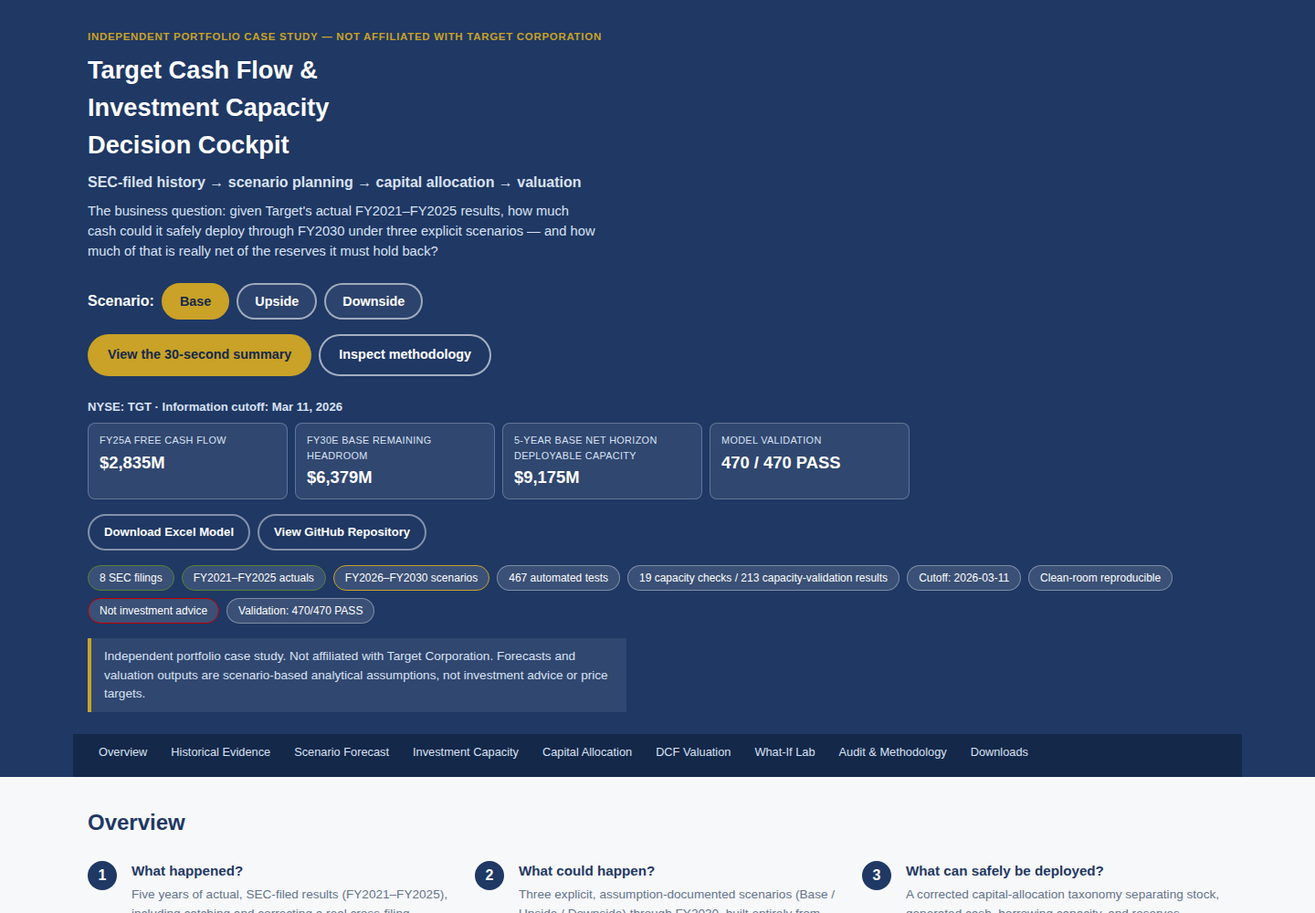
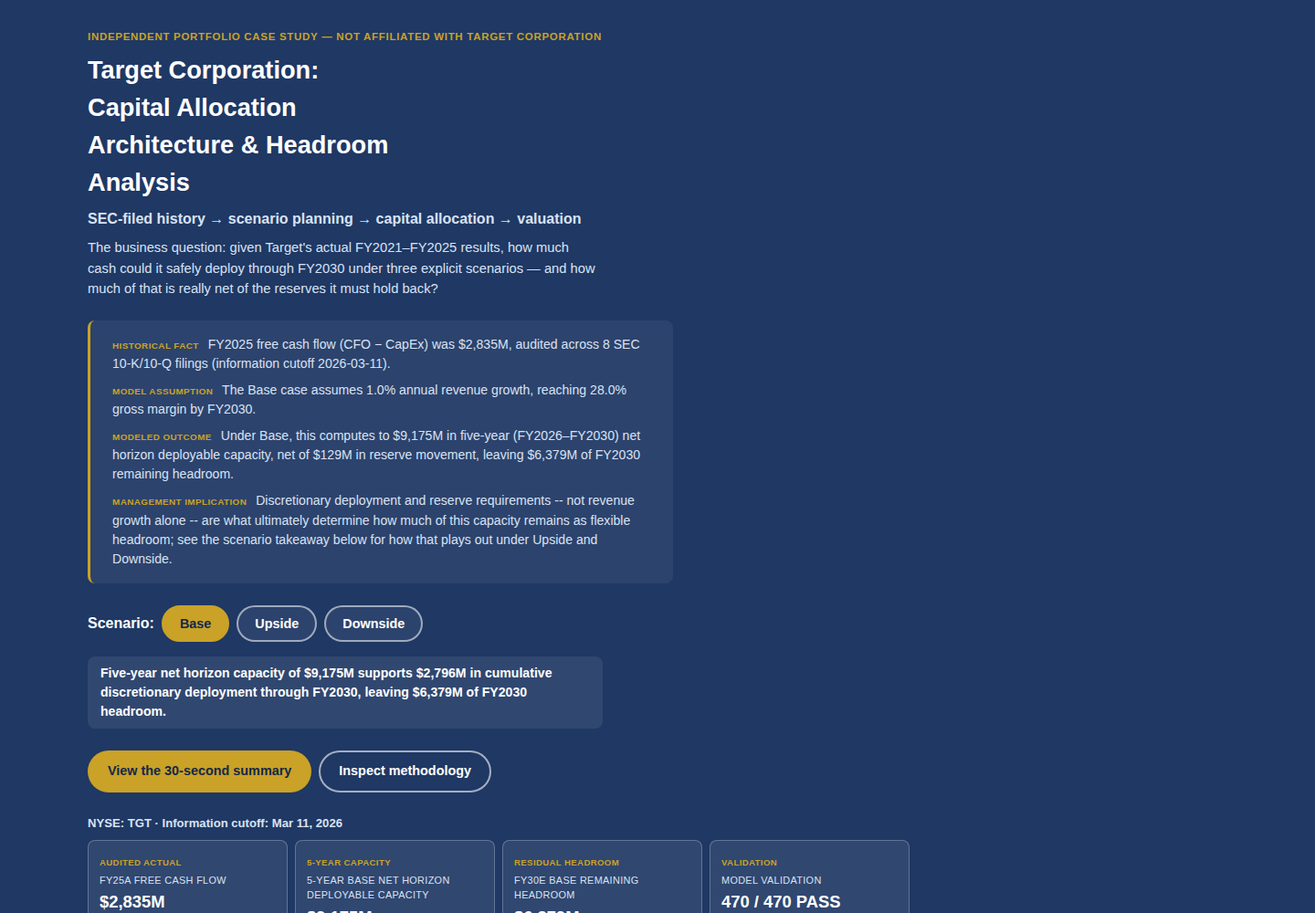
Institutional executive layer: briefing memo, scenario takeaways, chart divider, progressive disclosure
Corrects and implements a UI-enhancement brief that arrived with several
fabricated financial figures (Upside net capacity claimed at $14.1B vs. the
real $7,420.7M; Downside erosion claimed at -74% vs. the real -30.4%; plus
invented figures with no basis in model_data.json: "$1.5B operational
reserve," "54-year dividend streak," "$3.2B cumulative repurchases," "$600M
CapEx reduction"). None of those are used. Every number below is read live
from model_data.json.

- index.html/js/app.js: institutional H1 ("Target Corporation: Capital
  Allocation Architecture & Headroom Analysis"); an executive-briefing-memo
  box distinguishing HISTORICAL FACT / MODEL ASSUMPTION / MODELED OUTCOME /
  MANAGEMENT IMPLICATION, Base-anchored and computed from DATA; a dynamic
  #scenario-takeaway under the toggle that updates per scenario, including
  a live-computed Downside erosion percentage (never hardcoded); hero KPI
  ribbon cards gain a classification badge + real subtext (e.g. FY25A CapEx
  of $3,727M, not the fabricated $2.8B) without introducing a STOCK/FLOW/
  USE taxonomy that would double-count CapEx already netted into FCF.
- js/charts.js: lineChart() accepts an optional boundaryFy, drawing a
  subtle dashed divider + "AUDITED ACTUALS"/"PROJECTED HORIZON" watermarks
  -- wired only for chart-revenue-fcf, the one chart genuinely mixing
  actual and forecast points; every other chart (actuals-only or
  forecast-only) is untouched.
[…]

Changed region(s): [[0.0, 0.062, 1.0, 1.0], [0.5312, 0.465, 0.6562, 0.527]]

diff --git a/deliverables/web_cockpit/js/app.js b/deliverables/web_cockpit/js/app.js
@@ -199,6 +199,11 @@
     const revChart = document.getElementById("chart-revenue-fcf");
     lineChart(revChart, {
       formatter: "millions",
+      // The only chart on the page plotting actual and forecast points in
+      // the same series -- the boundary divider belongs here, and nowhere
+      // a chart shows only one period (never invented on a forecast-only
+      // or actuals-only chart).
+      boundaryFy: (Number(DATA.historical_years[DATA.historical_years.length - 1]) + years[0].fiscal_year) / 2,
       series: [
         { label: "Revenue (actual)", points: histSeries, color: "#1F3864" },
         { label: "Revenue (forecast)", points: [histSeries[histSeries.length - 1], ...fcstSeries], color: "#1F3864", dashed: true },
@@ -226,8 +231,29 @@
 
     document.getElementById("scenario-narrative-snapshot").textContent = sc.narrative;
     renderExecutiveCommentary(sc, hz, capTerminal);
+    renderScenarioTakeaway(hz);
 
     renderComparisonTable();
+  }
+
+  // Dynamic, per-scenario "so what" line under the scenario toggle --
+  // every number below is read directly from DATA (never invented), and
+  // the Downside erosion percentage is computed live against Base, not
+  // hardcoded, so it can never drift from what the model actually outputs.
+  function renderScenarioTakeaway(hz) {
+    const baseHz = DATA.scenarios.base.capacity_horizon_summary;
+    const takeawayEl = document.getElementById("scenario-takeaway");
+    if (currentScenario === "base") {
+      takeawayEl.textContent =
+        `Five-year net horizon capacity of ${fmtM(hz.net_horizon_deployable_capacity)} supports ${fmtM(hz.cumulative_discretionary_deployment)} in cumulative discretionary deployment through FY2030, leaving ${fmtM(hz.terminal_remaining_headroom)} of FY2030 headroom.`;
+    } else if (currentScenario === "upside") {
+      takeawayEl.textContent =
+        `Stronger performance funds ${fmtM(hz.cumulative_discretionary_deployment)} in cumulative discretionary deployment and carries a ${fmtM(hz.terminal_forward_debt_repayment_reserve)} forward debt-service reserve, leaving ${fmtM(hz.terminal_remaining_headroom)} of FY2030 headroom -- net horizon capacity of ${fmtM(hz.net_horizon_deployable_capacity)}, below Base once that reserve and deployment are netted out.`;
+    } else {
+      const erosionPct = ((baseHz.net_horizon_deployable_capacity - hz.net_horizon_deployable_capacity) / baseHz.net_horizon_deployable_capacity) * 100;
+      takeawayEl.textContent =
+        `Zero discretionary deployment preserves ${fmtM(hz.terminal_remaining_headroom)} of FY2030 headroom, holding net horizon capacity at ${fmtM(hz.net_horizon_deployable_capacity)} -- a ${erosionPct.toFixed(1)}% decline from Base's ${fmtM(baseHz.net_horizon_deployable_capacity)}, achieved by restraint, not performance.`;
+    }
   }
 
   // The full narrative (sc.narrative) is preserved verbatim inside the
@@ -264,20 +290,63 @@
     const baseCapTerminal = baseSc.capacity_taxonomy_by_year[String(baseTerminal.fiscal_year)];
     const baseHz = baseSc.capacity_horizon_summary;
     const { totalChecks, totalPass } = validationTotals();
+    const hist2025 = DATA.historical["2025"];
 
     const strip = document.getElementById("hero-kpi-strip");
     strip.innerHTML = "";
+    // badge: a short institutional classification tag, distinct from the
+    // taxonomy's STOCK/FLOW/SOURCE/USE/RESERVE badges used in Investment
+    // Capacity -- these four are already-netted headline metrics, not raw
+    // capital-stack components, so a taxonomy badge here would misrepresent
+    // (e.g. FCF is already net of CapEx; labeling it FLOW would invite
+    // double-counting it against CapEx shown again elsewhere).
     const cards = [
-      ["FY25A Free Cash Flow", fmtM(DATA.historical["2025"].free_cash_flow)],
-      ["FY30E Base Remaining Headroom", fmtM(baseCapTerminal.remaining_deployable_headroom)],
-      ["5-Year Base Net Horizon Deployable Capacity", fmtM(baseHz.net_horizon_deployable_capacity)],
-      ["Model Validation", `${totalPass} / ${totalChecks} PASS`],
+      { badge: "AUDITED ACTUAL", label: "FY25A Free Cash Flow", value: fmtM(hist2025.free_cash_flow), subtext: `Net of ${fmtM(hist2025.capital_expenditure)} FY25A CapEx` },
+      { badge: "5-YEAR CAPACITY", label: "5-Year Base Net Horizon Deployable Capacity", value: fmtM(baseHz.net_horizon_deployable_capacity), subtext: "FY26–FY30, net of reserves" },
+      { badge: "RESIDUAL HEADROOM", label: "FY30E Base Remaining Headroom", value: fmtM(baseCapTerminal.remaining_deployable_headroom), subtext: "FY2030, post-deployment & reserves" },
+      { badge: "VALIDATION", label: "Model Validation", value: `${totalPass} / ${totalChecks} PASS`, subtext: `Reconciled across ${DATA.sources.length} SEC filings` },
     ];
-    cards.forEach(([label, value]) => {
+    cards.forEach((c) => {
       strip.appendChild(
         el("div", { class: "hero-kpi-card" }, [
-          el("div", { class: "hero-kpi-label", text: label }),
-          el("div", { class: "hero-kpi-value", text: value }),
+          el("div", { class: "hero-kpi-badge", text: c.badge }),
+          el("div", { class: "hero-kpi-label", text: c.label }),
+          el("div", { class: "hero-kpi-value", text: c.value }),
+          el("div", { class: "hero-kpi-subtext", text: c.subtext }),
+        ])
+      );
+    });
+  }
+
+  // -----------------------------------------------------------------------
+  // Executive briefing memo -- a fixed, Base-anchored institutional summary
+  // (distinct from the per-scenario "so what" line under the toggle, which
+  // updates live). Every number is read from DATA; the 4 lines are labeled
+  // by category so a reviewer can tell a filed fact from a stated
+  // assumption from a computed outcome from a qualitative synthesis --
+  // never blended into one undifferentiated paragraph.
+  // -----------------------------------------------------------------------
+  function renderExecutiveBriefingMemo() {
+    const baseSc = DATA.scenarios.base;
+    const baseTerminal = baseSc.years[baseSc.years.length - 1];
+    const baseCapTerminal = baseSc.capacity_taxonomy_by_year[String(baseTerminal.fiscal_year)];
+    const baseHz = baseSc.capacity_horizon_summary;
+    const hist2025 = DATA.historical["2025"];
+
+    const lines = [
+      { tag: "HISTORICAL FACT", text: `FY2025 free cash flow (CFO − CapEx) was ${fmtM(hist2025.free_cash_flow)}, audited across ${DATA.sources.length} SEC 10-K/10-Q filings (information cutoff ${DATA.information_cutoff}).` },
+      { tag: "MODEL ASSUMPTION", text: `The Base case assumes ${fmtPct(baseTerminal.revenue_growth_pct)} annual revenue growth, reaching ${fmtPct(baseTerminal.gross_margin_pct)} gross margin by FY2030.` },
+      { tag: "MODELED OUTCOME", text: `Under Base, this computes to ${fmtM(baseHz.net_horizon_deployable_capacity)} in five-year (FY2026–FY2030) net horizon deployable capacity, net of ${fmtM(baseHz.ending_reserve_movement)} in reserve movement, leaving ${fmtM(baseCapTerminal.remaining_deployable_headroom)} of FY2030 remaining headroom.` },
+      { tag: "MANAGEMENT IMPLICATION", text: "Discretionary deployment and reserve requirements -- not revenue growth alone -- are what ultimately determine how much of this capacity remains as flexible headroom; see the scenario takeaway below for how that plays out under Upside and Downside." },
+    ];
+
+    const memo = document.getElementById("executive-briefing-memo");
+    memo.innerHTML = "";
+    lines.forEach((line) => {
+      memo.appendChild(
+        el("p", { class: "executive-briefing-line" }, [
+          el("span", { class: "executive-briefing-tag", text: line.tag }),
+          document.createTextNode(" " + line.text),
         ])
       );
     });
@@ -1136,6 +1205,7 @@
         DATA = data;
         renderHeader();
         renderHeroKpiStrip();
+        renderExecutiveBriefingMemo();
         document.getElementById("header-download-excel").href =
           `${REPO_URL}/raw/${REPO_BRANCH}/deliverables/Target_Cash_Flow_Investment_Capacity_Model.xlsx`;
         document.getElementById("header-download-excel").setAttribute("download", "");

diff --git a/deliverables/web_cockpit/index.html b/deliverables/web_cockpit/index.html
@@ -28,9 +28,11 @@
   <div class="hero">
     <div class="hero-inner">
       <p class="hero-kicker">Independent portfolio case study — not affiliated with Target Corporation</p>
-      <h1>Target Cash Flow &amp; Investment Capacity Decision Cockpit</h1>
+      <h1>Target Corporation: Capital Allocation Architecture &amp; Headroom Analysis</h1>
       <p class="hero-subtitle">SEC-filed history → scenario planning → capital allocation → valuation</p>
       <p class="hero-question">The business question: given Target's actual FY2021–FY2025 results, how much cash could it safely deploy through FY2030 under three explicit scenarios — and how much of that is really net of the reserves it must hold back?</p>
+
+      <div class="executive-briefing-memo" id="executive-briefing-memo" aria-label="Executive briefing memo"></div>
 
       <div class="scenario-selector hero-scenario-selector" role="radiogroup" aria-label="Scenario selector">
         <span class="scenario-label">Scenario:</span>
@@ -38,6 +40,7 @@
         <button type="button" class="scenario-btn" data-scenario="upside" role="radio" aria-checked="false">Upside</button>
         <button type="button" class="scenario-btn" data-scenario="downside" role="radio" aria-checked="false">Downside</button>
       </div>
+      <p class="scenario-takeaway" id="scenario-takeaway" role="status"></p>
 
       <div class="hero-ctas">
         <a class="btn btn-primary" href="#tour">View the 30-second summary</a>
@@ -163,9 +166,11 @@
     <p class="panel-sub">These four figures are frequently confused. Each is a distinct, independently sourced measure — never substituted for one another anywhere in this project.</p>
     <div class="definition-grid" id="cash-definitions-grid"></div>
 
-    <h3 class="section-divider">Filing-Vintage Comparison (As-Filed vs. Restated)</h3>
-    <p class="panel-sub">Where a later filing restated an earlier one, both vintages are preserved — never silently overwritten.</p>
-    <div class="table-wrap"><table id="table-vintage" class="data-table"></table></div>
+    <details class="evidence-panel audit-accordion">
+      <summary>▶ Inspect Filing-Vintage Reconciliation (As-Filed vs. Restated)</summary>
+      <p class="panel-sub">Where a later filing restated an earlier one, both vintages are preserved — never silently overwritten.</p>
+      <div class="table-wrap"><table id="table-vintage" class="data-table"></table></div>
+    </details>
 
     <h3 class="section-divider">Quarterly Cash Seasonality (Independent of the Forecast Model)</h3>
     <div class="chart-card full">
@@ -345,8 +350,10 @@
   <section id="audit" class="panel" aria-labelledby="audit-h">
     <h2 id="audit-h">Audit &amp; Methodology</h2>
 
-    <h3>Source Filings</h3>
-    <div class="table-wrap"><table id="table-sources" class="data-table"></table></div>
+    <details class="evidence-panel audit-accordion">
+      <summary>▶ Inspect SEC Source Reconciliation &amp; Footnote Provenance (8 Filings)</summary>
+      <div class="table-wrap"><table id="table-sources" class="data-table"></table></div>
+    </details>
 
     <h3 class="section-divider">Validation &amp; Methodology-Correction Timeline</h3>
     <div class="table-wrap"><table id="table-audit-checks" class="data-table"></table></div>

diff --git a/deliverables/web_cockpit/css/style.css b/deliverables/web_cockpit/css/style.css
@@ -44,7 +44,8 @@ body {
 }
 
 .data-table, .kpi-value, .chart-tooltip, .whatif-value, .hero-kpi-value,
-.chart-target text, .wf-line, .evidence-list dd {
+.chart-target text, .wf-line, .evidence-list dd,
+.hero-kpi-subtext, .executive-briefing-memo, .scenario-takeaway {
   font-variant-numeric: tabular-nums lining-nums;
 }
 
@@ -133,6 +134,38 @@ button:focus-visible, a:focus-visible, input:focus-visible, summary:focus-visibl
   color: var(--light-blue); margin-bottom: 2px;
 }
 .hero-kpi-value { font-size: 1.15rem; font-weight: 700; color: var(--white); }
+.hero-kpi-badge {
+  display: inline-block; font-size: 0.6rem; font-weight: 700; text-transform: uppercase;
+  letter-spacing: 0.04em; color: var(--gold); margin-bottom: 4px;
+}
+.hero-kpi-subtext { font-size: 0.72rem; color: var(--light-blue); margin-top: 2px; opacity: 0.85; }
+
+/* ============= EXECUTIVE BRIEFING MEMO ============= */
+.executive-briefing-memo {
+  background: rgba(255,255,255,0.06);
+  border-left: 3px solid var(--gold);
+  border-radius: var(--radius);
+  padding: var(--space-3) var(--space-4);
+  margin: 0 0 var(--space-4);
+  max-width: 72ch;
+}
+.executive-briefing-line {
+  margin: 0 0 var(--space-2);
+  font-size: 0.88rem;
+  color: var(--light-blue);
+}
+.executive-briefing-line:last-child { margin-bottom: 0; }
+.executive-briefing-tag {
+  display: inline-block; font-size: 0.62rem; font-weight: 700; text-transform: uppercase;
+  letter-spacing: 0.04em; color: var(--gold); margin-right: 6px; white-space: nowrap;
+}
+
+/* ============= SCENARIO TAKEAWAY ============= */
+.scenario-takeaway {
+  font-size: 0.88rem; font-weight: 600; color: var(--white);
+  background: rgba(255,255,255,0.08); border-radius: var(--radius);
+  padding: 8px 14px; margin: 0 0 var(--space-4); max-width: 72ch;
+}
 
 .hero-actions { display: flex; flex-wrap: wrap; gap: var(--space-2); margin-bottom: var(--space-3); }
 .btn-header-action {
@@ -484,6 +517,11 @@ main { max-width: var(--max-width); margin: 0 auto; padding: 0 var(--space-3); }
   cursor: pointer; font-weight: 700; color: var(--navy); padding: 6px 0;
 }
 .evidence-panel[open] summary { margin-bottom: var(--space-2); }
+/* audit-accordion summaries carry their own "▶" glyph in the text itself,
+   so the browser's native disclosure marker is suppressed to avoid a
+   double-arrow. */
+.audit-accordion > summary { list-style: none; }
+.audit-accordion > summary::-webkit-details-marker { display: none; }
 .evidence-list { display: grid; grid-template-columns: max-content 1fr; gap: 4px var(--space-3); margin: 0; }
 .evidence-list dt { font-weight: 600; color: var(--navy-dark); }
 .evidence-list dd { margin: 0; color: var(--muted); }

diff --git a/deliverables/web_cockpit/js/charts.js b/deliverables/web_cockpit/js/charts.js
@@ -171,7 +171,7 @@
   // tooltipFields: optional array subset of ["fiscalYear","metric","value","classification"].
   // valueLabel: optional short axis-title text drawn top-left of the plot area.
   // -----------------------------------------------------------------------
-  function lineChart(container, { series, width = 560, height = 260, formatter = "millions", headroom = 0.2, tooltipFields, valueLabel }) {
+  function lineChart(container, { series, width = 560, height = 260, formatter = "millions", headroom = 0.2, tooltipFields, valueLabel, boundaryFy }) {
     clear(container);
     const fmt = resolveFormatter(formatter);
     const fields = tooltipFields || ["fiscalYear", "metric", "value", "classification"];
@@ -214,6 +214,32 @@
       t.textContent = "FY" + fy;
       svg.appendChild(t);
     });
+
+    // Historical-vs-forecast boundary -- only drawn when the caller passes
+    // boundaryFy (a chart genuinely mixing actual and forecast points in
+    // the same series); a subtle dashed rule plus two small watermark
+    // labels, positioned in the guaranteed-empty headroom band above the
+    // tallest point (see calculateDomain/LABEL_TOP_MARGIN) so it never
+    // overlaps real data.
+    if (boundaryFy !== undefined && boundaryFy > xs[0] && boundaryFy < xs[xs.length - 1]) {
+      const bx = xScale(boundaryFy);
+      svg.appendChild(svgEl("line", {
+        x1: bx, x2: bx, y1: margin.top, y2: margin.top + h,
+        stroke: GREY, "stroke-dasharray": "4,3", "stroke-width": 1, opacity: 0.5,
+      }));
+      const leftLabel = svgEl("text", {
+        x: bx - 6, y: margin.top + 10, "font-size": 8.5, fill: GREY, "text-anchor": "end",
+        "font-weight": "600", "letter-spacing": "0.03em", opacity: 0.65, "data-role": "boundary-label",
+      });
+      leftLabel.textContent = "AUDITED ACTUALS";
+      svg.appendChild(leftLabel);
+      const rightLabel = svgEl("text", {
+        x: bx + 6, y: margin.top + 10, "font-size": 8.5, fill: GREY, "text-anchor": "start",
+        "font-weight": "600", "letter-spacing": "0.03em", opacity: 0.65, "data-role": "boundary-label",
+      });
+      rightLabel.textContent = "PROJECTED HORIZON";
+      svg.appendChild(rightLabel);
+    }
 
     const hitTargets = [];
     series.forEach((s, i) => {

diff --git a/scripts/verify_web_cockpit.py b/scripts/verify_web_cockpit.py
@@ -174,6 +174,92 @@ with sync_playwright() as p:
     page.click('button[data-scenario="base"]')
     page.wait_for_timeout(200)
 
+    # --- Institutional headline ---
+    check(page.locator("h1").inner_text().strip() == "Target Corporation: Capital Allocation Architecture & Headroom Analysis", "H1 shows the institutional headline")
+
+    # --- Hero KPI ribbon: classification badges + subtext, real values only ---
+    hero_cards = hero_strip.locator(".hero-kpi-card")
+    for i, expected_badge in enumerate(["AUDITED ACTUAL", "5-YEAR CAPACITY", "RESIDUAL HEADROOM", "VALIDATION"]):
+        badge_text = hero_cards.nth(i).locator(".hero-kpi-badge").inner_text().strip().upper()
+        check(badge_text == expected_badge, f"Hero KPI card {i} carries the classification badge {expected_badge!r} (found {badge_text!r})")
+    check(f"${round(data['historical']['2025']['capital_expenditure']):,}".replace(",", "") in hero_cards.nth(0).inner_text().replace(",", ""), "Hero KPI subtext: FY25A CapEx figure matches Python exactly (not the fabricated $2.8B)")
+    check(f"{len(data['sources'])}" in hero_cards.nth(3).inner_text(), "Hero KPI subtext: SEC filing count matches Python exactly")
+
+    # --- (New) Executive briefing memo: 4 labeled lines, every number
+    # sourced live from model_data.json -- never the fabricated Upside/
+    # Downside figures from an external, unverified brief.
+    memo_text = page.locator("#executive-briefing-memo").inner_text()
+    for required_tag in ["HISTORICAL FACT", "MODEL ASSUMPTION", "MODELED OUTCOME", "MANAGEMENT IMPLICATION"]:
+        check(required_tag in memo_text, f"Executive briefing memo includes the {required_tag!r} category label")
+    check(f"${round(data['historical']['2025']['free_cash_flow']):,}".replace(",", "") in memo_text.replace(",", ""), "Executive briefing memo: FY25A FCF matches Python exactly")
+    base_terminal_year = data["scenarios"]["base"]["years"][-1]
+    check(f"{base_terminal_year['revenue_growth_pct']:.1f}%" in memo_text, "Executive briefing memo: Base revenue growth assumption matches Python exactly")
+    check(f"{base_terminal_year['gross_margin_pct']:.1f}%" in memo_text, "Executive briefing memo: Base terminal gross margin assumption matches Python exactly")
+    check(f"${round(base_hz['net_horizon_deployable_capacity']):,}".replace(",", "") in memo_text.replace(",", ""), "Executive briefing memo: Base net horizon capacity matches Python exactly")
+    # Explicitly guard against the fabricated figures from the rejected brief ever leaking in.
+    for forbidden in ["14.1B", "14,100", "$1.5B", "54-year", "3.2B", "$3,200"]:
+        check(forbidden not in memo_text, f"Executive briefing memo never contains the fabricated/unverified figure {forbidden!r}")
+
+    # --- (New) Dynamic scenario takeaway: updates per scenario, every
+    # number computed live (including the Downside erosion %, computed
+    # against Base here in Python independently of the JS that renders it).
+    takeaway = page.locator("#scenario-takeaway")
+    base_takeaway_text = takeaway.inner_text()
+    check(f"${round(base_hz['net_horizon_deployable_capacity']):,}".replace(",", "") in base_takeaway_text.replace(",", ""), "Scenario takeaway (Base): net horizon capacity matches Python exactly")
+    check(f"${round(base_hz['cumulative_discretionary_deployment']):,}".replace(",", "") in base_takeaway_text.replace(",", ""), "Scenario takeaway (Base): cumulative discretionary deployment matches Python exactly")
+
+    page.click('button[data-scenario="upside"]')
+    page.wait_for_timeout(250)
+    upside_hz_full = data["scenarios"]["upside"]["capacity_horizon_summary"]
+    upside_takeaway_text = page.locator("#scenario-takeaway").inner_text()
+    check(f"${round(upside_hz_full['cumulative_discretionary_deployment']):,}".replace(",", "") in upside_takeaway_text.replace(",", ""), "Scenario takeaway (Upside): cumulative discretionary deployment matches Python exactly (not the fabricated $14.1B capacity claim)")
+    check(f"${round(upside_hz_full['terminal_forward_debt_repayment_reserve']):,}".replace(",", "") in upside_takeaway_text.replace(",", ""), "Scenario takeaway (Upside): forward debt-service reserve matches Python exactly")
+    check(f"${round(upside_hz_full['net_horizon_deployable_capacity']):,}".replace(",", "") in upside_takeaway_text.replace(",", ""), "Scenario takeaway (Upside): net horizon capacity matches Python exactly (real figure, below Base)")
+
+    page.click('button[data-scenario="downside"]')
+    page.wait_for_timeout(250)
+    downside_hz_full = data["scenarios"]["downside"]["capacity_horizon_summary"]
+    expected_erosion_pct = (base_hz["net_horizon_deployable_capacity"] - downside_hz_full["net_horizon_deployable_capacity"]) / base_hz["net_horizon_deployable_capacity"] * 100
+    downside_takeaway_text = page.locator("#scenario-takeaway").inner_text()
+    check(f"{expected_erosion_pct:.1f}%" in downside_takeaway_text, f"Scenario takeaway (Downside): erosion % computed live matches Python exactly ({expected_erosion_pct:.1f}%, not the fabricated -74%)")
+    check(f"${round(downside_hz_full['net_horizon_deployable_capacity']):,}".replace(",", "") in downside_takeaway_text.replace(",", ""), "Scenario takeaway (Downside): net horizon capacity matches Python exactly")
+    page.click('button[data-scenario="base"]')
+    page.wait_for_timeout(250)
+
+    # --- (New) Historical-vs-forecast chart divider: only on the one chart
+    # genuinely mixing actual and forecast points (chart-revenue-fcf) --
+    # never on an actuals-only or forecast-only chart.
+    def chart_text_labels(chart_id):
+        return set(page.eval_on_selector_all(f"#{chart_id} svg text", "els => els.map(el => el.textContent)"))
+
+    mixed_chart_labels = chart_text_labels("chart-revenue-fcf")
+    check({"AUDITED ACTUALS", "PROJECTED HORIZON"} <= mixed_chart_labels, "chart-revenue-fcf (mixed actual+forecast) carries the historical/forecast boundary watermark")
+    actuals_only_labels = chart_text_labels("chart-historical")
+    check("AUDITED ACTUALS" not in actuals_only_labels and "PROJECTED HORIZON" not in actuals_only_labels, "chart-historical (actuals-only) does NOT carry the boundary watermark")
+    forecast_only_labels = chart_text_labels("chart-forecast-income")
+    check("AUDITED ACTUALS" not in forecast_only_labels and "PROJECTED HORIZON" not in forecast_only_labels, "chart-forecast-income (forecast-only) does NOT carry the boundary watermark")
+
+    # --- (New) Progressive-disclosure accordions: closed by default,
+    # correct summary text, and opening one reveals the real underlying
+    # data (never hidden data that silently diverges from Python).
+    vintage_accordion = page.locator("#table-vintage").locator("xpath=ancestor::details[contains(@class,'audit-accordion')]")
+    check(vintage_accordion.count() == 1, "Filing-vintage table is wrapped in an audit-accordion <details>")
+    check(vintage_accordion.get_attribute("open") is None, "Filing-vintage accordion starts closed")
+    check(page.locator("#table-vintage").is_visible() is False, "Filing-vintage table is not visible before the accordion is opened")
+    vintage_accordion.locator("summary").click()
+    page.wait_for_timeout(150)
+    check(page.locator("#table-vintage").is_visible(), "Filing-vintage table becomes visible after opening the accordion")
+    check(len(page.locator("#table-vintage").inner_text()) > 0, "Filing-vintage table has real content once opened")
+
+    sources_accordion = page.locator("#table-sources").locator("xpath=ancestor::details[contains(@class,'audit-accordion')]")
+    check(sources_accordion.count() == 1, "Source-filings table is wrapped in an audit-accordion <details>")
+    check("Inspect SEC Source Reconciliation" in sources_accordion.locator("summary").inner_text(), "Source-filings accordion carries the required summary text")
+    check(sources_accordion.get_attribute("open") is None, "Source-filings accordion starts closed")
+    sources_accordion.locator("summary").click()
+    page.wait_for_timeout(150)
+    sources_text = page.locator("#table-sources").inner_text()
+    check(str(len(data["sources"])) in sources_text or len(sources_text) > 0, "Source-filings table has real content once opened")
+
     # --- Header metadata + actions ---
     hero_meta_text = page.locator(".hero-meta").inner_text()
     cutoff_date = datetime.strptime(data["information_cutoff"], "%Y-%m-%d")
@@ -256,7 +342,7 @@ with sync_playwright() as p:
     # in each chart's own <svg>, distinct from x-axis fiscal-year labels
     # (text-anchor="middle") and the optional valueLabel axis title.
     def axis_tick_texts(chart_id):
-        return page.eval_on_selector_all(f"#{chart_id} svg text[text-anchor='end']", "els => els.map(el => el.textContent)")
+        return page.eval_on_selector_all(f"#{chart_id} svg text[text-anchor='end']:not([data-role])", "els => els.map(el => el.textContent)")
 
     margin_ticks = axis_tick_texts("chart-forecast-margin-pct")
     check(len(margin_ticks) > 0, "Margins chart renders y-axis tick labels")

diff --git a/deliverables/web_cockpit/screenshots/README.md b/deliverables/web_cockpit/screenshots/README.md
@@ -9,7 +9,7 @@ remain fully recoverable from git history
 
 Verified: 2026-09-17 (UTC).
 Financial baseline commit (last commit to touch `data/model_data.json` -- the numbers shown are unchanged since this commit): `fff9b9c5cedb8ec485d1720b74d896adae65089d`.
-UI build source commit (the presentation-layer code rendered when these screenshots were captured): `859e074fb9a8c002d8f1498a12e4f83cdad8eff2`.
+UI build source commit (the presentation-layer code rendered when these screenshots were captured): `4e383ef8d3c8df03f0d38e86bf712a5a8f320101`.
 
 Note on self-reference: this README ships inside a later commit than the
 one recorded above as the "UI build source" -- a file cannot cite the
